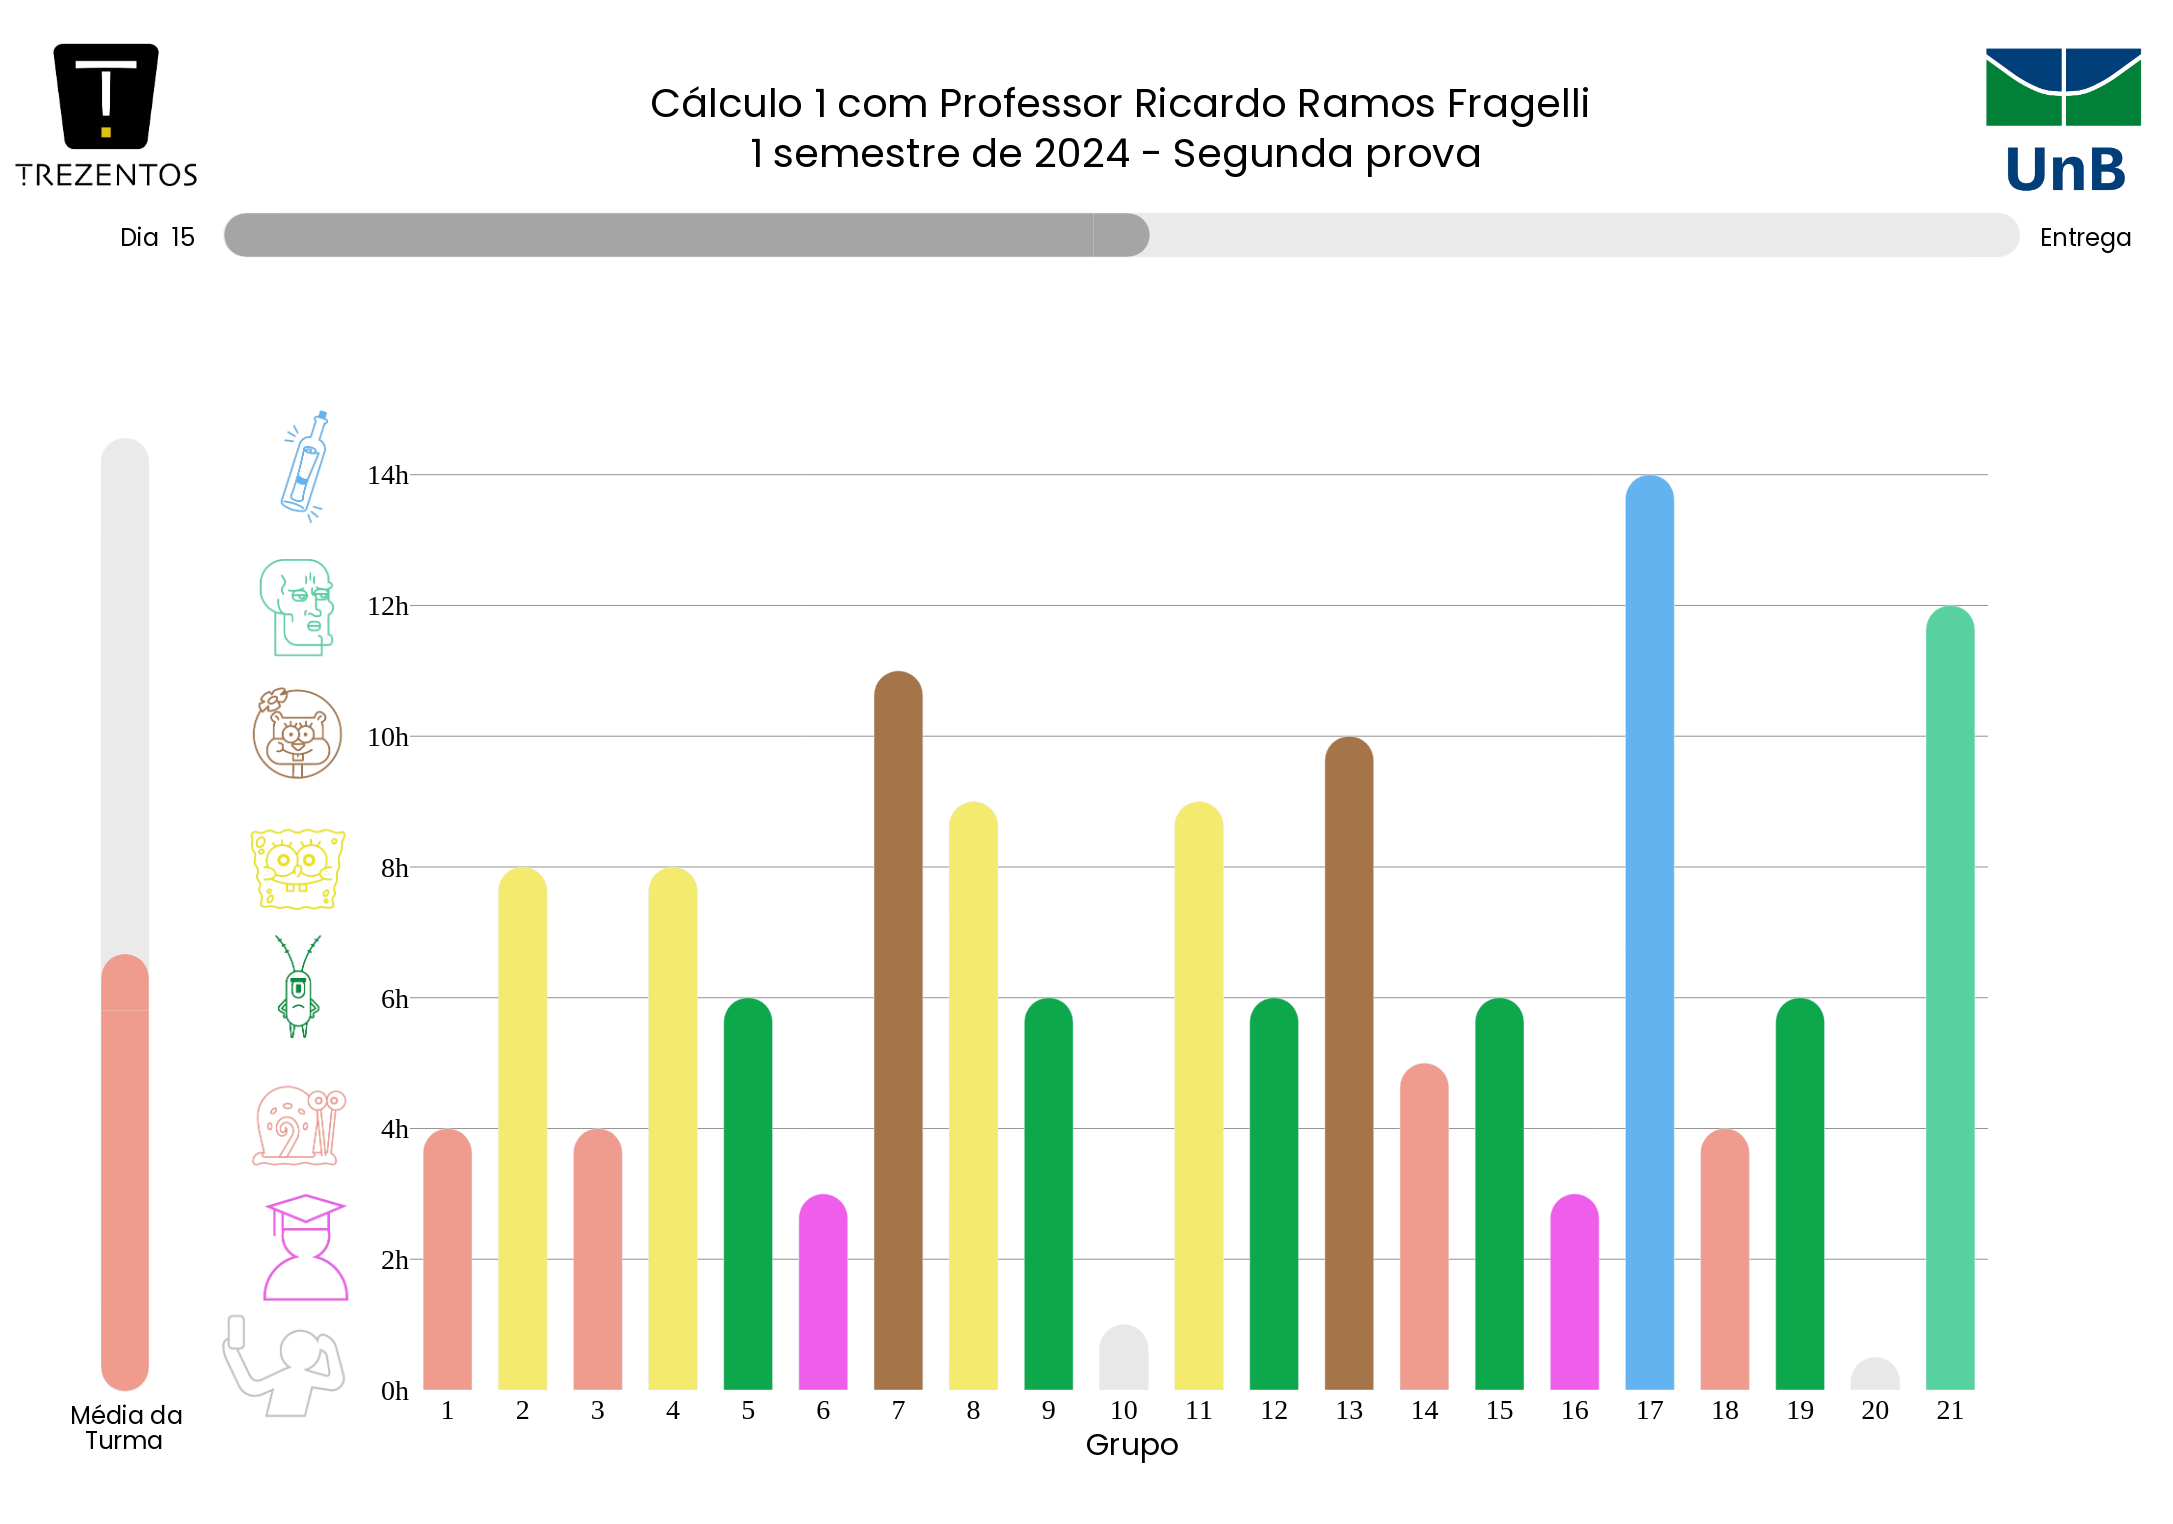
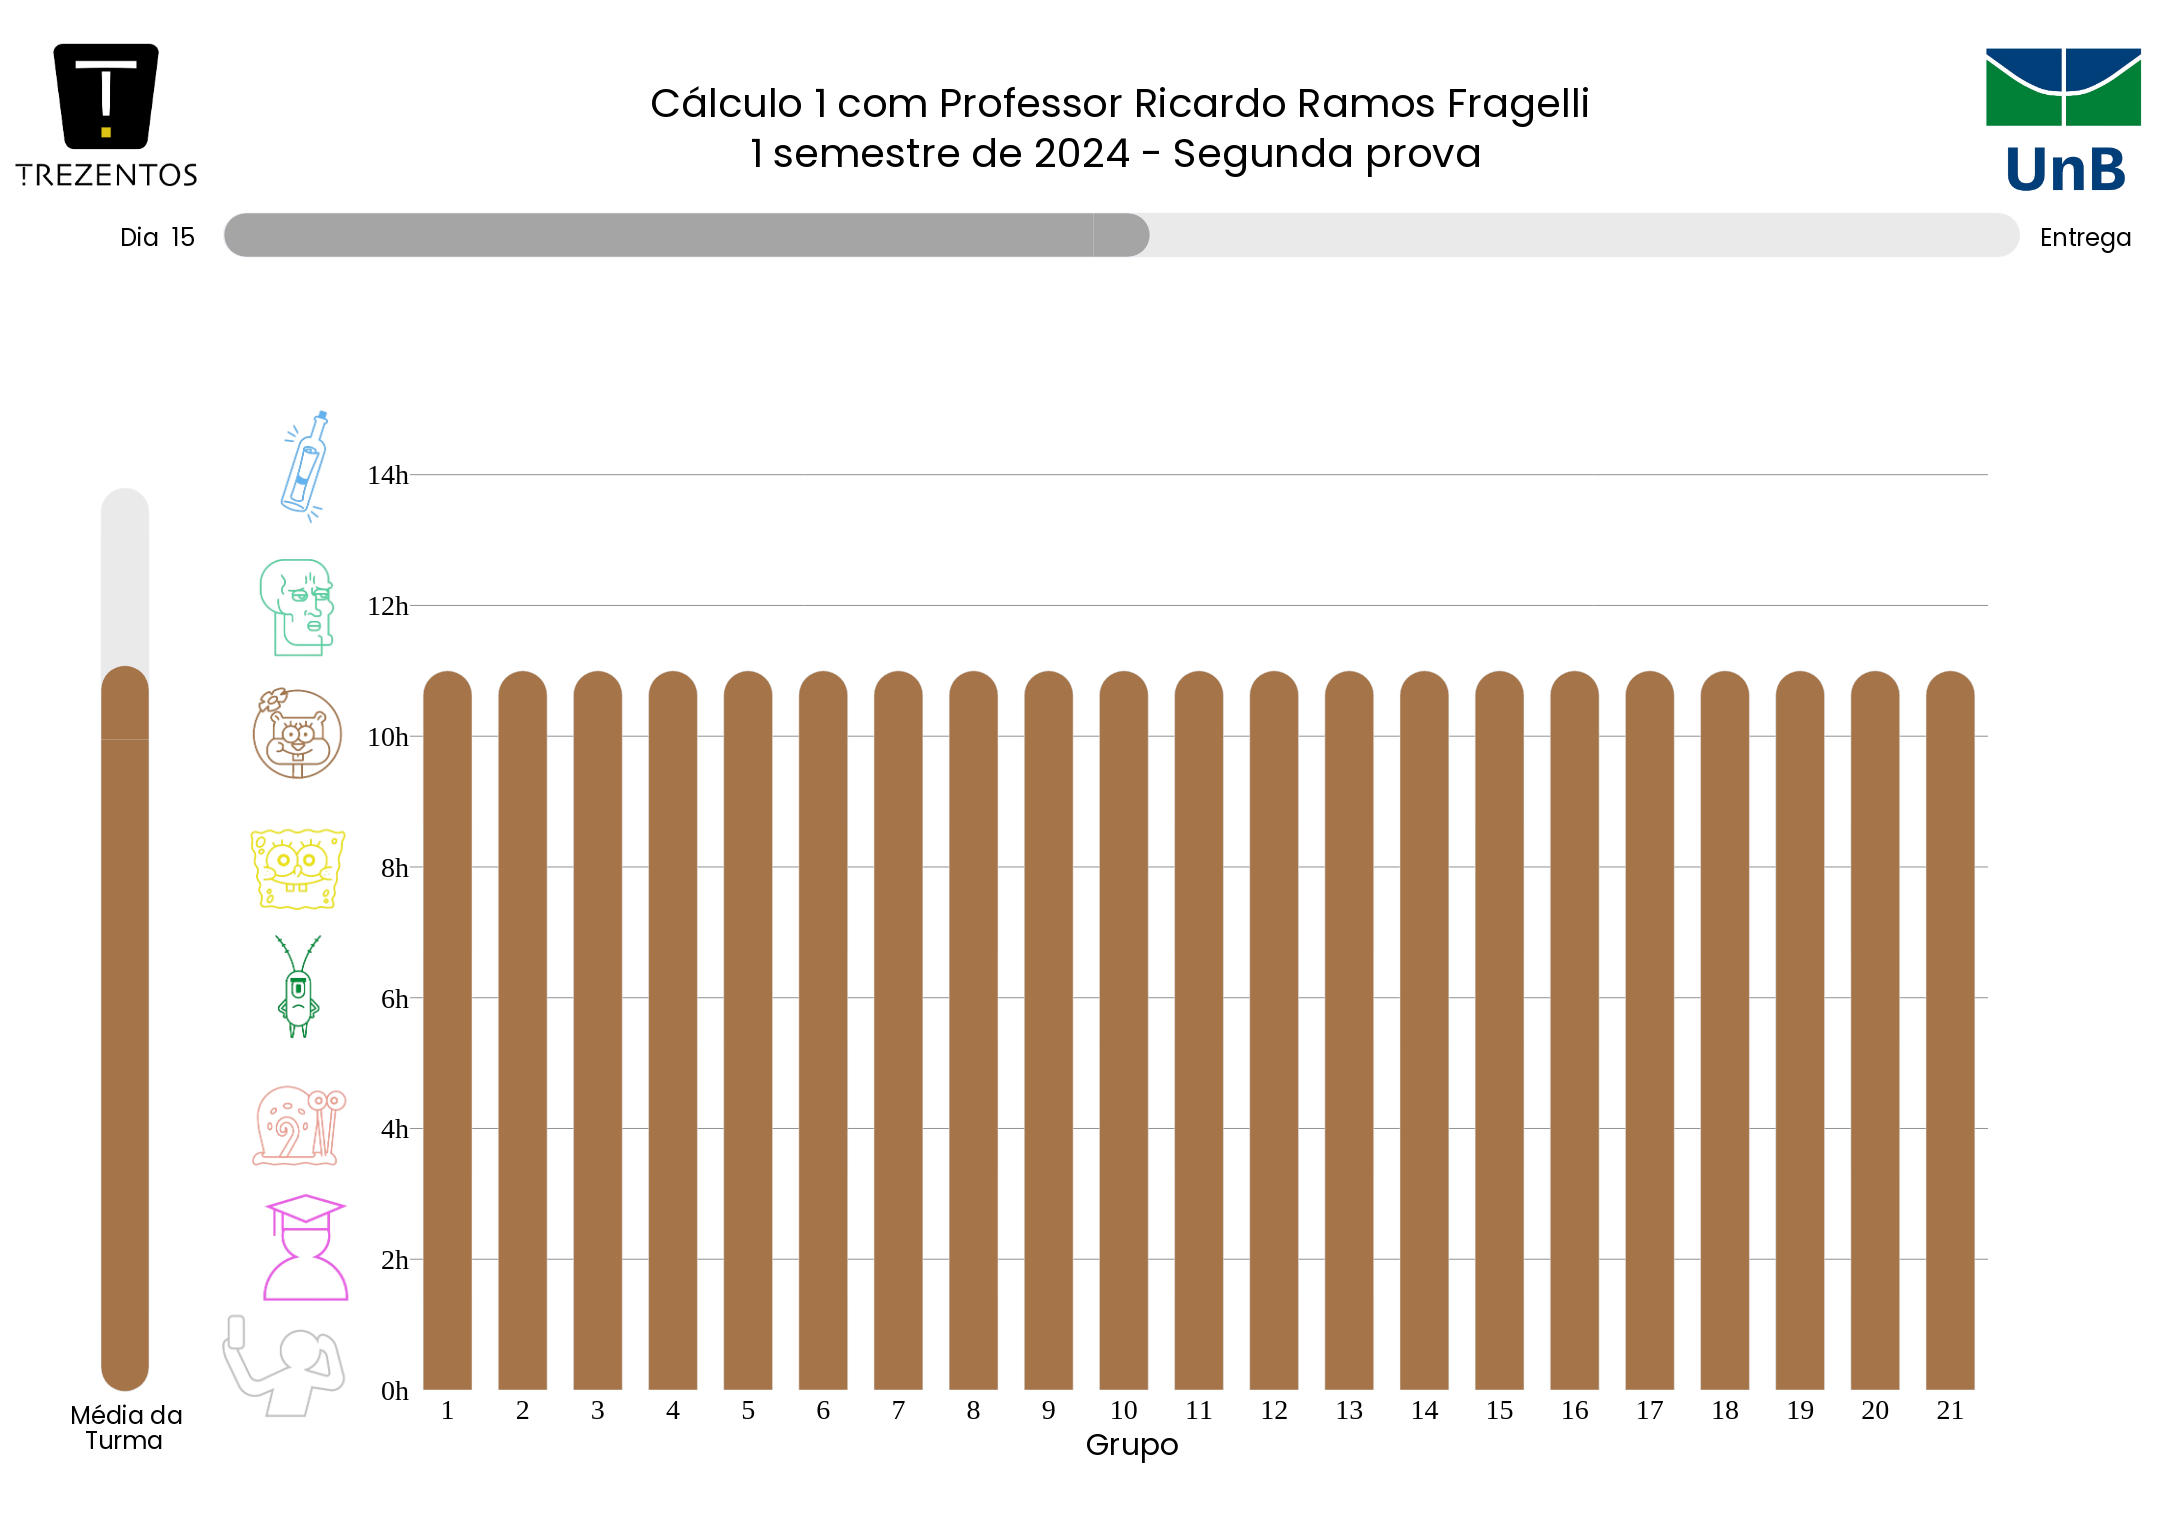
fix: corrigindo média do grafico

Changed region(s): [[0.4317, 0.3084, 0.925, 0.9252], [0.185, 0.4318, 0.4008, 0.9252], [0.0308, 0.4318, 0.0925, 0.9252]]

diff --git a/imagem_final_gerador.py b/imagem_final_gerador.py
@@ -84,15 +84,16 @@ ajusty = 48
 print(gerando_grafico_base.media_turma)
 #if gerando_grafico_base.media_turma 
 # Criando a barra da média da turma
-base.paste(backside_media, (coordx, 290+ajusty),backside_media)  # ajuste a posição conforme necessário
+base.paste(backside_media, (coordx, 290+ajusty+50),backside_media)  # ajuste a posição conforme necessário
 base.paste(backside_media_invertido, (100, 1524-backside_media_invertido.height-180+ajusty),backside_media_invertido)  # ajuste a posição conforme necessário
 
-if 11 < gerando_grafico_base.media_turma <= 13: base.paste(media, (coordx+50, coordy-52+10+ajusty),media)  # ajuste a posição conforme necessário
-elif 10 < gerando_grafico_base.media_turma <= 11: base.paste(media, (coordx+50, coordy-52+20+ajusty),media)  # ajuste a posição conforme necessário
-elif 8< gerando_grafico_base.media_turma <= 10: base.paste(media, (coordx+50, coordy-52+30+ajusty),media)  # ajuste a posição conforme necessário
-elif 6 < gerando_grafico_base.media_turma <= 8: base.paste(media, (coordx, coordy-15+ajusty),media)  # ajuste a posição conforme necessário
-elif gerando_grafico_base.media_turma <= 6: base.paste(media, (coordx, coordy+ajusty),media)  # ajuste a posição conforme necessário
-else: base.paste(media, (coordx+50, coordy-52+ajusty),media)  # ajuste a posição conforme necessário
+if 12 < gerando_grafico_base.media_turma <= 14: base.paste(media, (coordx, coordy-33+ajusty),media)  # ajuste a posição conforme necessário
+elif 10 < gerando_grafico_base.media_turma <= 12: base.paste(media,(coordx, coordy-32+ajusty),media)  # ajuste a posição conforme necessário
+elif 8 < gerando_grafico_base.media_turma <= 10: base.paste(media, (coordx, coordy-18+ajusty),media)  # ajuste a posição conforme necessário
+elif 6 < gerando_grafico_base.media_turma <= 8: base.paste(media, (coordx, coordy-10+ajusty),media)  # ajuste a posição conforme necessário
+elif 4 < gerando_grafico_base.media_turma <= 6: base.paste(media, (coordx, coordy+ajusty),media)  # ajuste a posição conforme necessário
+elif 2 < gerando_grafico_base.media_turma <= 4: base.paste(media, (coordx, coordy+ajusty+20),media)  # ajuste a posição conforme necessário
+else: base.paste(media, (coordx, coordy+ajusty+24),media)  # ajuste a posição conforme necessário
 base.paste(media_invertida, (100, 1524-media_invertida.height-180+ajusty),media_invertida)
 
 #Criando a barra dos dias
